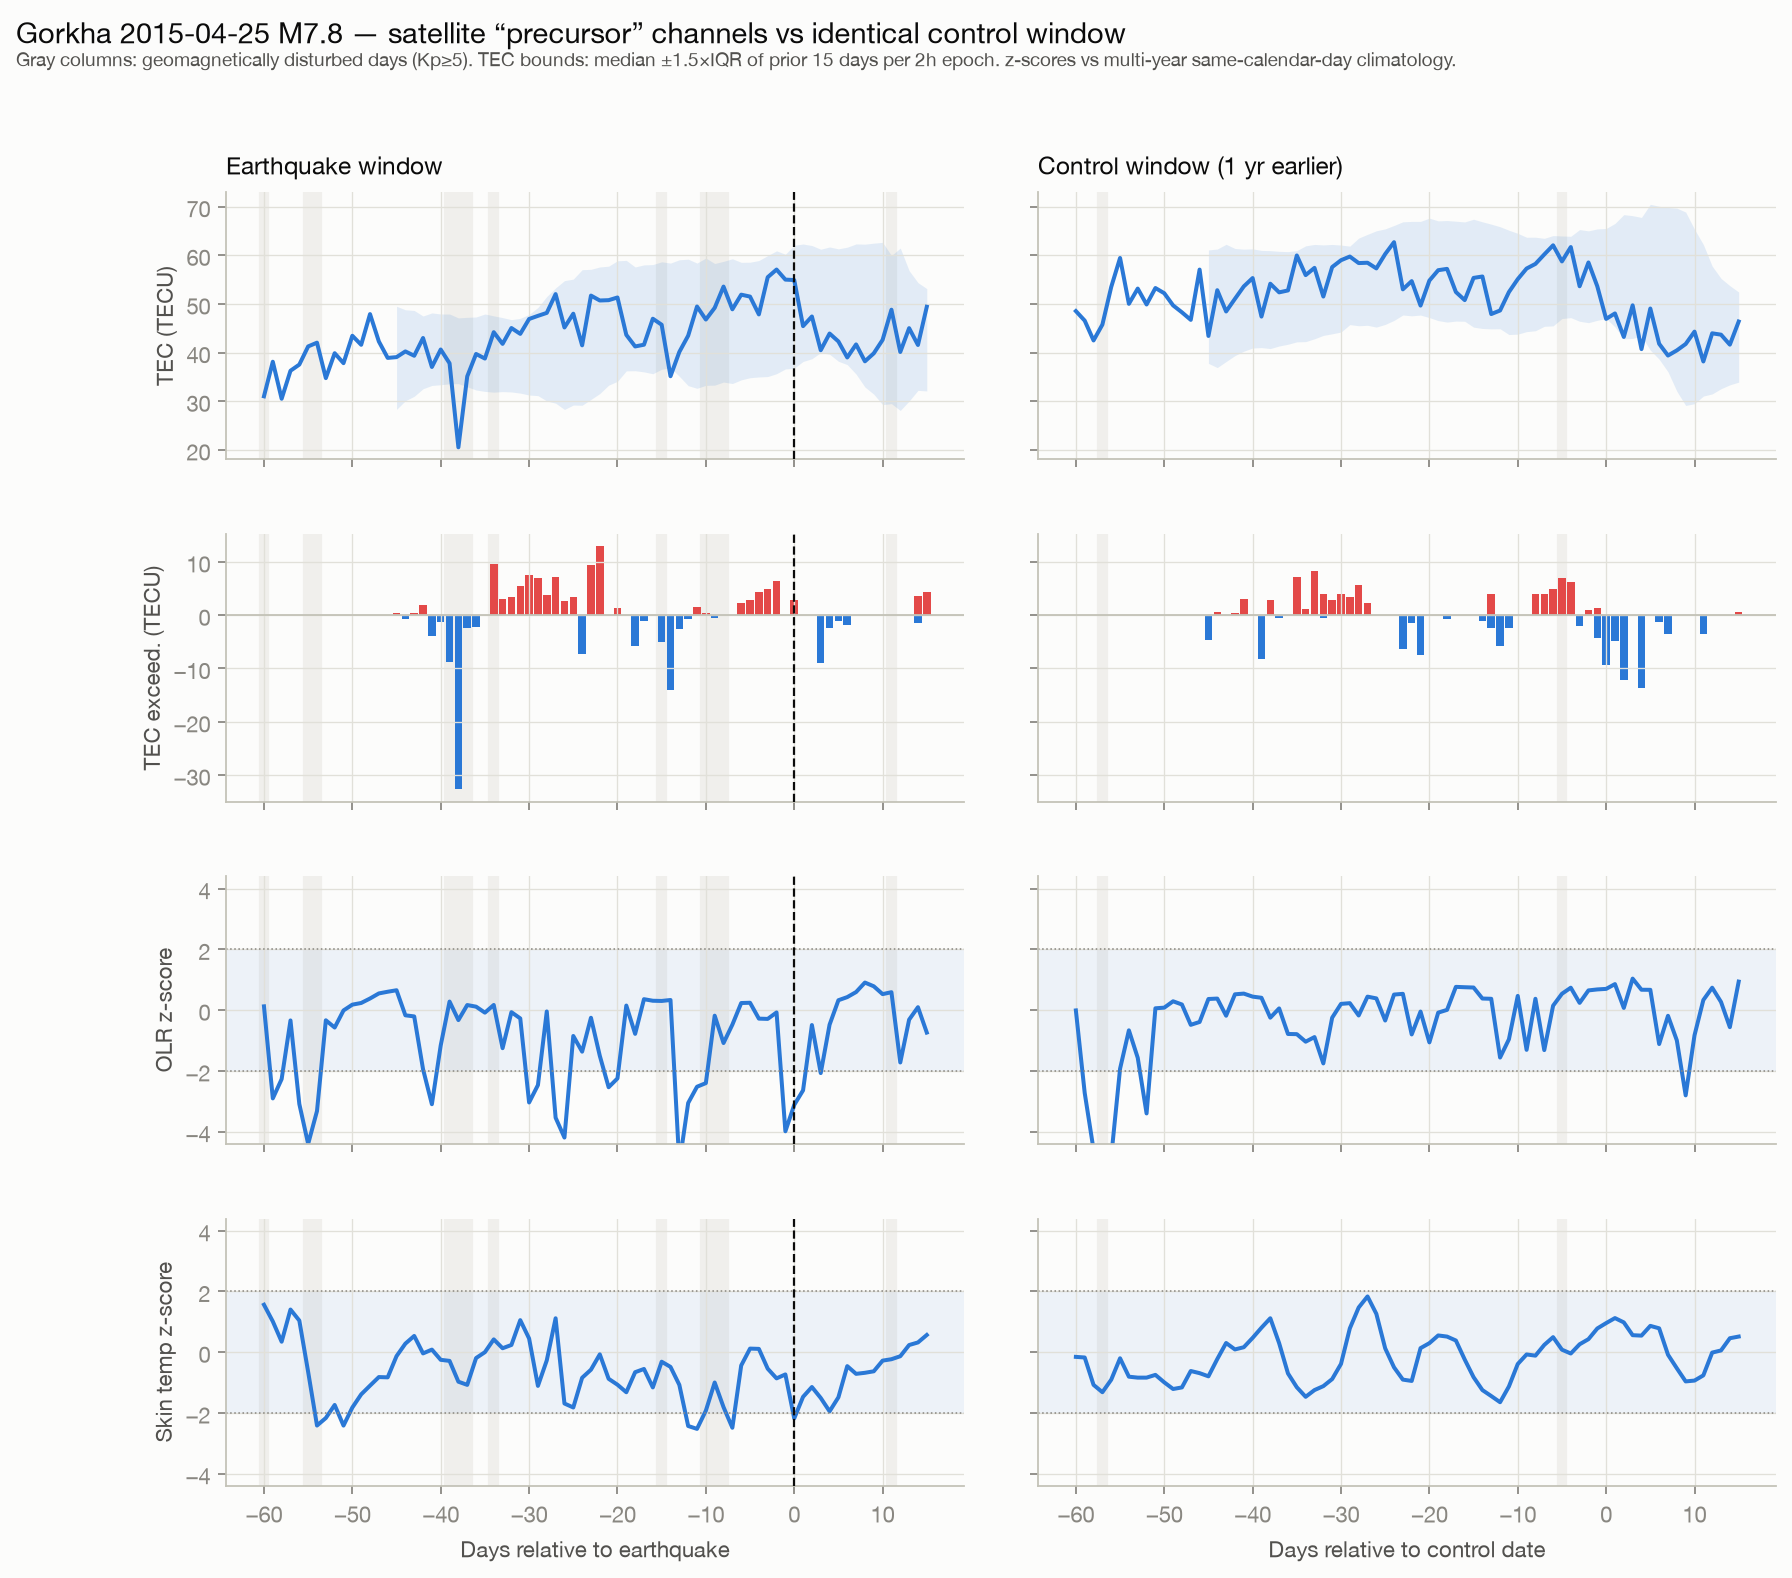
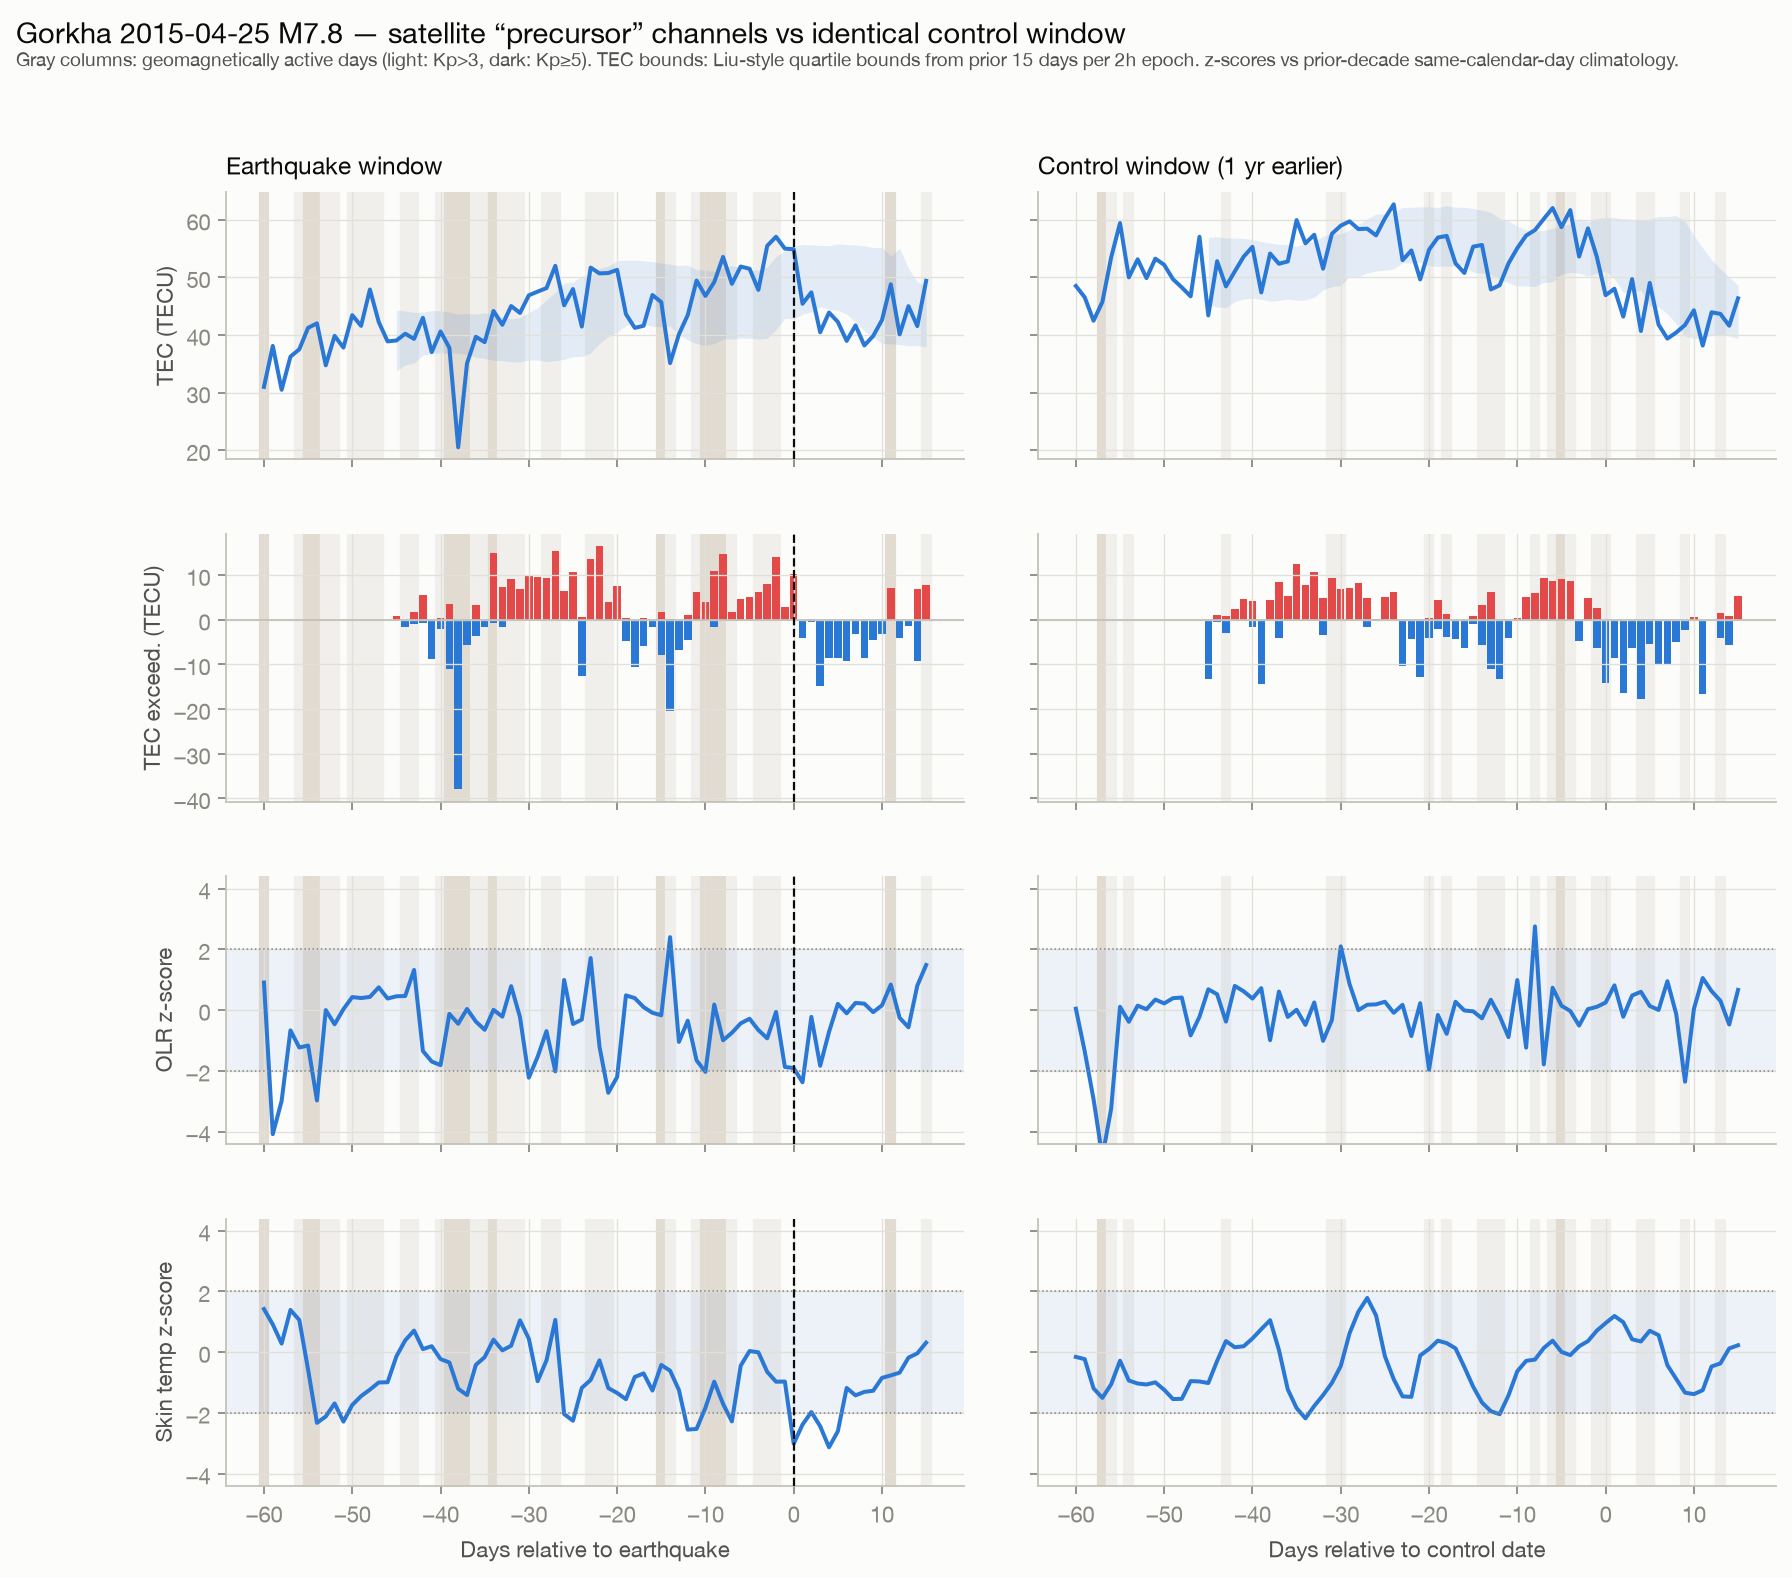
Precursor note: methods verified against source papers, corrected rerun
Liu 2009 bounds are 1.5x the quartile half-distances, not 1.5x IQR
(that variant is Liu 2006); OLR now removes the zonal band mean first
(Ouzounov 2007 eddy field); climatologies restricted to prior decade;
quiet days now Kp <= 3 after Thomas 2017. Null result got stronger.

Claude-Session: https://claude.ai/code/session_01V3QG5vdqpR9DmPBrZ2nNaS

diff --git a/research/earthquake-precursors/index.html b/research/earthquake-precursors/index.html
@@ -90,7 +90,8 @@
       <td>Electron content shifts days before large quakes</td>
       <td>JPL global ionosphere maps (IONEX), NASA sideshow archive</td>
       <td>2 h, 5&deg;&times;2.5&deg; grid</td>
-      <td>Outside median &plusmn;1.5&times;IQR of prior 15 days, per epoch</td>
+      <td>Below M &minus; 1.5(M &minus; LQ) or above M + 1.5(UQ &minus; M) from the prior
+        15 days, per 2 h epoch (their exact quartile bounds, about &plusmn;1&sigma;)</td>
       <td><a href="https://doi.org/10.1029/2008JA013698">Liu et al. 2009, JGR</a> (Wenchuan)</td>
       <td class="ok">Yes, anonymous</td>
       <td>Used, interpolated at each epicenter</td>
@@ -100,7 +101,8 @@
       <td>Infrared flux rises over the fault before rupture</td>
       <td>NOAA interpolated OLR to 2022, NOAA CDR v02r00 after (the older product retired Dec 2022)</td>
       <td>Daily, 2.5&deg; / 1&deg;</td>
-      <td>z &gt; 2 vs 10-year same-calendar-day climatology</td>
+      <td>Zonal band mean removed first (their eddy field), then z &gt; 2 vs
+        prior-decade same-calendar-day climatology</td>
       <td><a href="https://doi.org/10.1016/j.tecto.2006.05.042">Ouzounov et al. 2007, Tectonophysics</a></td>
       <td class="ok">Yes, anonymous</td>
       <td>Used</td>
@@ -110,7 +112,8 @@
       <td>Surface warms in the epicentral region</td>
       <td>NASA POWER daily point API</td>
       <td>Daily, ~0.5&deg;</td>
-      <td>z &gt; 2 vs 2001&ndash;2024 climatology, quake year excluded</td>
+      <td>z &gt; 2 vs prior-decade climatology (their 1 km night imagery is out of
+        reach here, so this is a coarse stand-in)</td>
       <td>Claim from <a href="https://doi.org/10.1016/s0264-3707(02)00013-3">Tronin et al. 2002, J. Geodyn.</a>; scored with the OLR rule</td>
       <td class="ok">Yes, no key</td>
       <td>Used (the Tohoku point sits offshore, so it reads sea surface)</td>
@@ -120,7 +123,7 @@
       <td>Not a precursor: the confounder. Solar storms move the ionosphere far more than any claimed seismic effect</td>
       <td>GFZ Potsdam API</td>
       <td>3 h, global</td>
-      <td>Day flagged disturbed at Kp &ge; 5</td>
+      <td>Quiet day requires max Kp &le; 3; plots shade both Kp &gt; 3 and Kp &ge; 5</td>
       <td><a href="https://doi.org/10.1002/2016JA023652">Thomas et al. 2017, JGR</a> (storm-time control)</td>
       <td class="ok">Yes, API</td>
       <td>Used to shade storm days in every plot</td>
@@ -180,11 +183,14 @@
   <figure>
     <img src="img/summary.png" alt="Bar chart comparing anomalous day counts before each quake against its control window">
     <figcaption>The scorecard. "Anomalous" days in the 30 days before each quake versus the
-    same count in the no-earthquake control window. The standard TEC detector fires on
-    roughly two thirds of all days everywhere, quake or no quake. Stricter rules (sustained
-    6-hour anomalies on geomagnetically quiet days, exceedances above 5 TECU) leave the
-    earthquake and control windows statistically indistinguishable, apart from a modest
-    Tohoku surplus explained by the solar ramp. OLR and temperature: zero hits, three for three.</figcaption>
+    same count in the no-earthquake control window. With the papers' own bounds the base
+    detector saturates: it fires on 28 to 30 of 30 days in every window, quake or no quake.
+    Sustained 6-hour anomalies on quiet days (the Liu group's own day criterion, Kp &le; 3
+    after Thomas et al.) are as common in control windows: Tohoku counts 14 before the quake
+    and 15 in the quiet year. Large exceedances above 5 TECU lean toward the quake windows
+    (6 vs 2, 22 vs 18, 10 vs 5), but Gorkha's control year alone shows 18 such days, which
+    is solar maximum talking, not the fault. OLR and temperature stay at zero to two days
+    on both sides.</figcaption>
   </figure>
 
   <div class="verdict">
@@ -209,6 +215,19 @@
   5&deg;&times;2.5&deg; resolution. The Tohoku temperature point sits offshore. Analysis
   code and data sources are a few hundred lines of Python against JPL, NOAA, NASA POWER
   and GFZ public archives; write us if you want the scripts.</p>
+
+  <p class="note">Verification, August 2026: we audited every processing step against the
+  source papers before settling the numbers on this page. Two corrections came out of it.
+  First, the TEC bounds: the formula that circulates as "median &plusmn;1.5&times;IQR"
+  actually belongs to a 2006 paper in the same lineage; the 2009 Wenchuan study uses
+  1.5 times the quartile-to-median distances, which is roughly half as wide, and that is
+  what runs here now. Second, the OLR score now removes the 10-degree zonal band mean
+  before comparison, which is the eddy-field step the 2007 paper actually describes.
+  Climatologies were also restricted to years before each event, and the quiet-day rule
+  tightened to Kp &le; 3 following Thomas et al. Every change made the detectors fire
+  more, on quake and control windows alike, and the verdict above got stronger, not
+  weaker. One missing day (8 Feb 2022, absent from the JPL archive) is treated as a gap,
+  never as a quiet day.</p>
 
 </div>
 </body>
